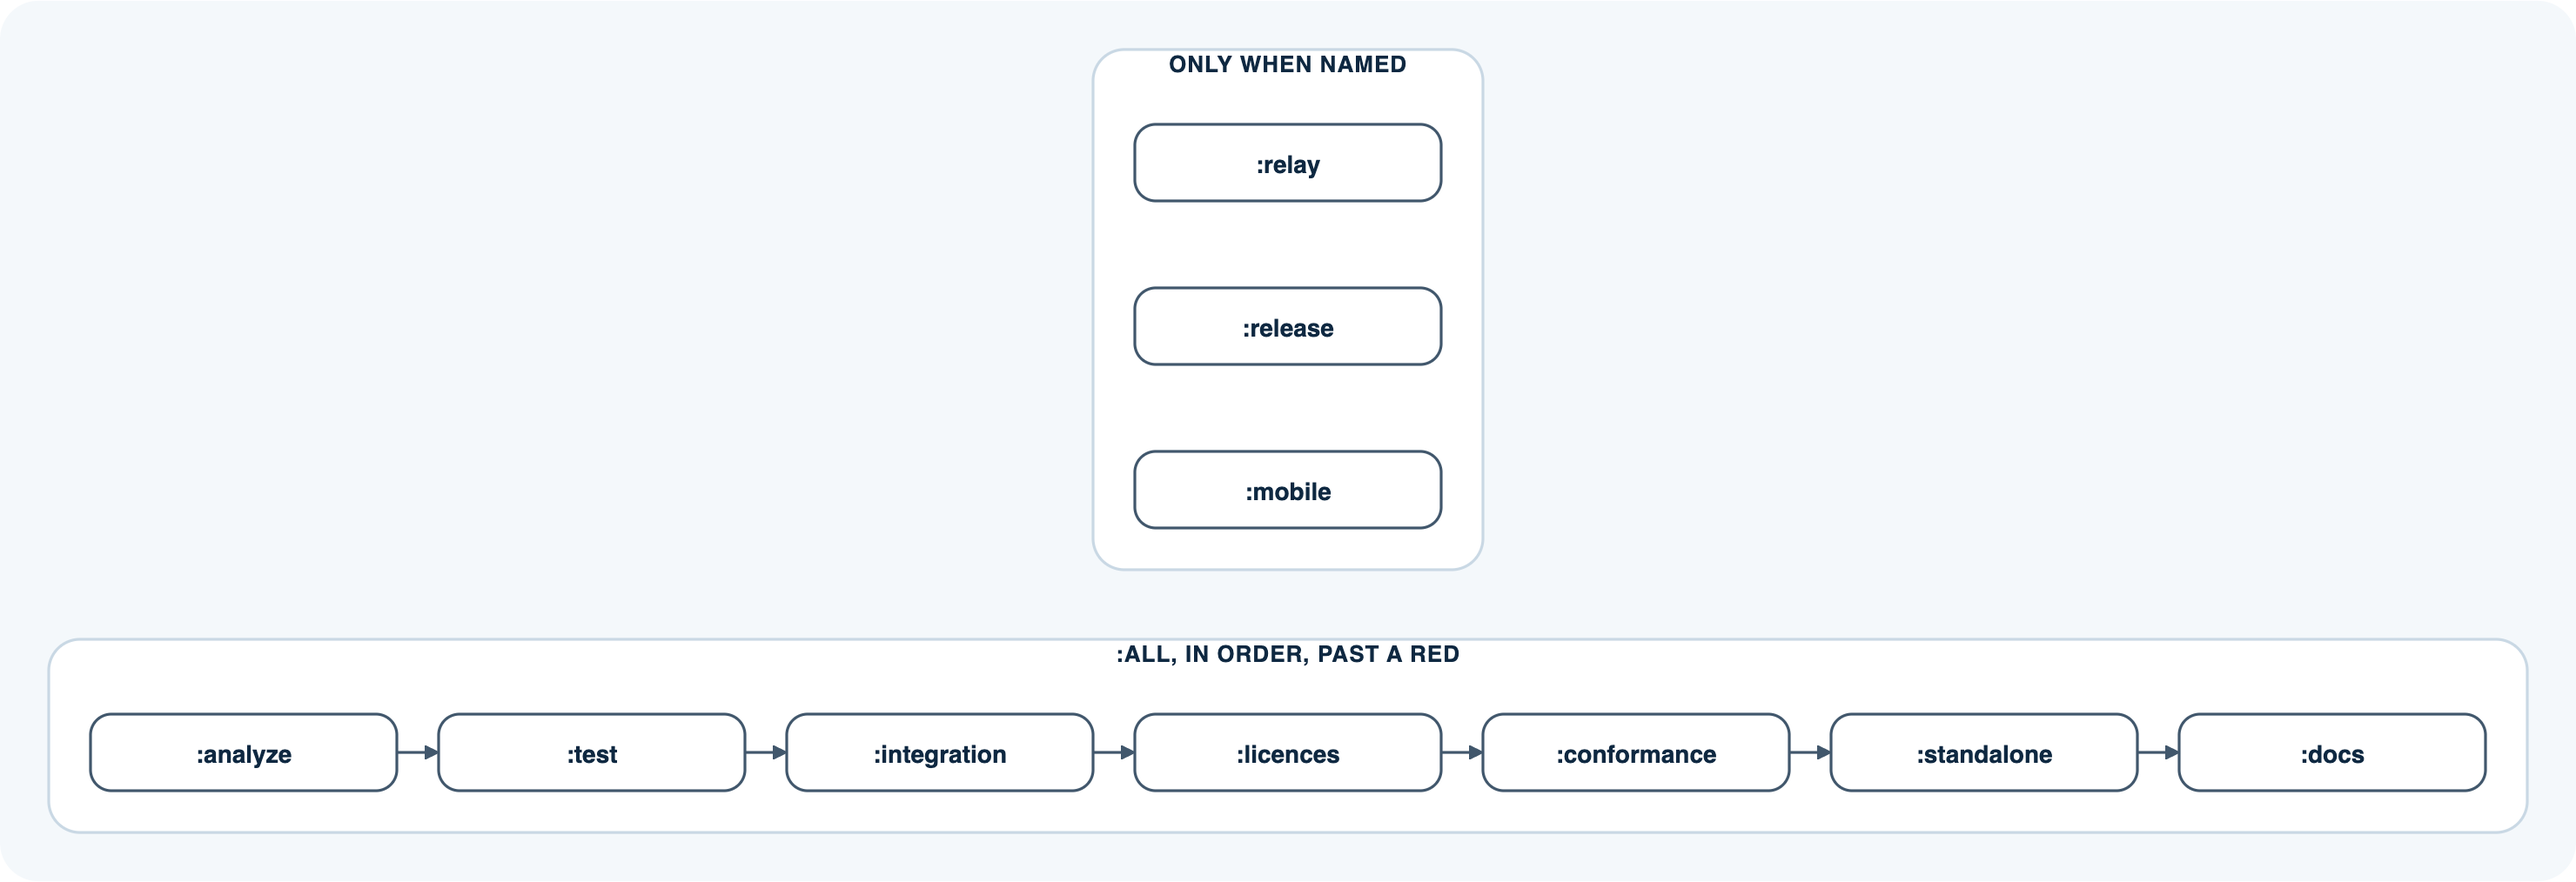
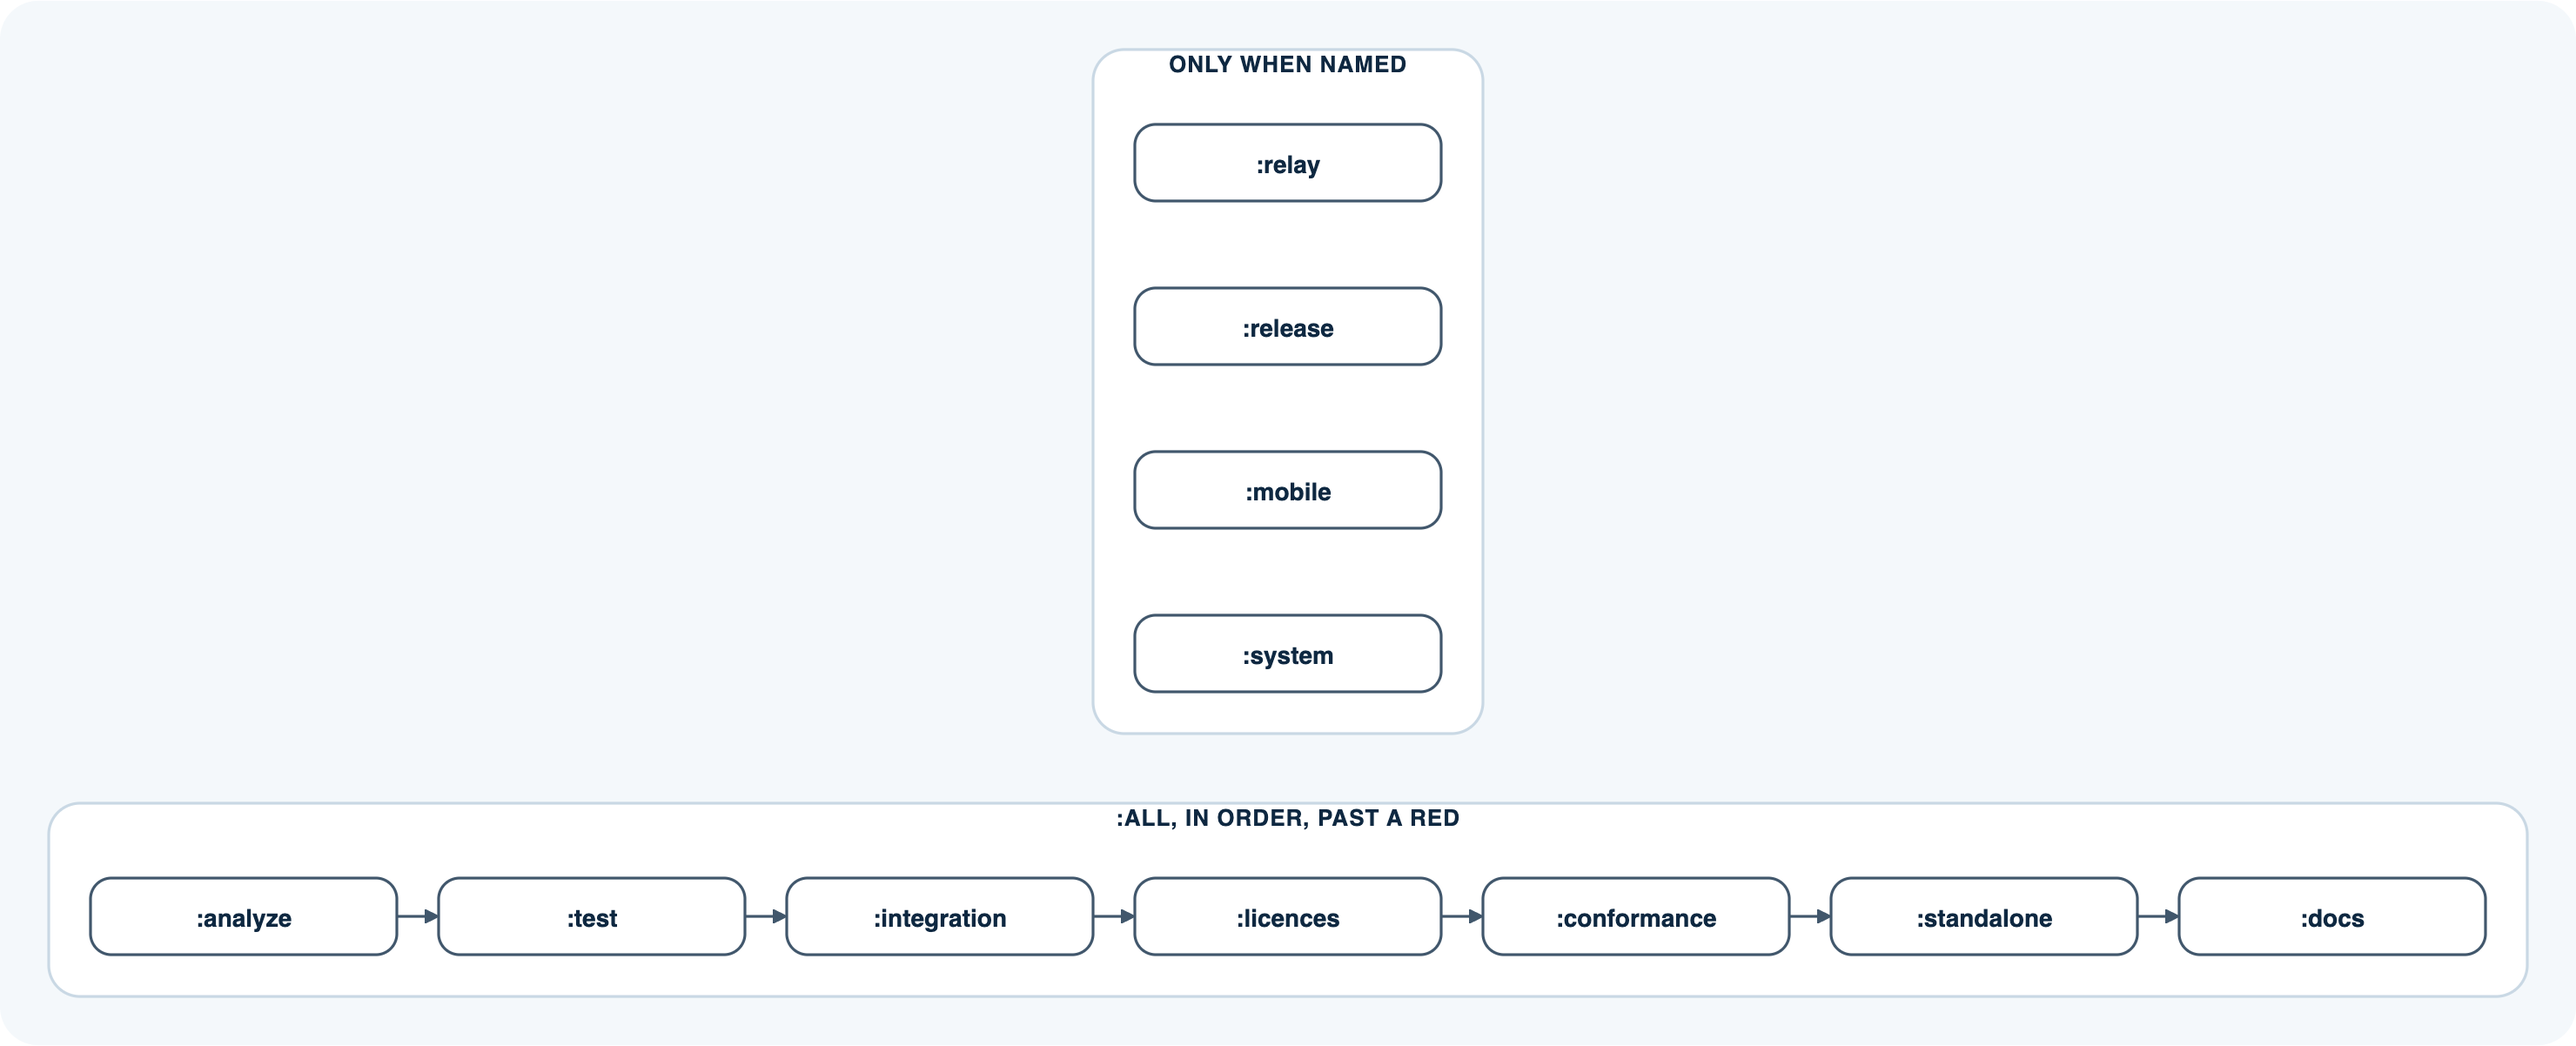
ci.sh :system: the Linux system install checked as root in a container; the app on tom_secrets_service 0.27.0
tool/system_install_check.sh builds the service and tsm from the working
tree in dart:stable, installs them with tsm install --system and checks with
three demo users: owners and modes, the identity keys out of every user's
reach, the group dropped, memory and environment closed, LD_PRELOAD ignored,
the account's runtime directory, a key from before signing the new one,
uninstall and --purge. Not part of :all (needs Docker). The demo installation
and the release smoke keep their identity key and pins with them (tsm_d11).

diff --git a/tom_secrets_build/lib/src/ci_stages.dart b/tom_secrets_build/lib/src/ci_stages.dart
@@ -27,11 +27,20 @@ const List<String> secretsCiStages = [
   'release',
   'mobile',
   'relay',
+  'system',
 ];
 
 /// The stages `:all` leaves out: the releases and the relay's image are
-/// built when one is made.
-const Set<String> secretsCiStagesNotInAll = {'release', 'mobile', 'relay'};
+/// built when one is made; the system install's check needs Docker.
+const Set<String> secretsCiStagesNotInAll = {
+  'release',
+  'mobile',
+  'relay',
+  'system',
+};
+
+/// The image the system install is checked in: Debian with the Dart SDK.
+const String secretsSystemCheckImage = 'dart:stable';
 
 /// One-line descriptions, shared by `--help` and the README.
 const Map<String, String> secretsCiStageDescriptions = {
@@ -103,8 +112,17 @@ const Map<String, String> secretsCiStageDescriptions = {
       'the relay server\'s container image (not part of :all): docker build '
       'of tom_secrets_relay (its Dockerfile: the AOT bundle on scratch), '
       'tagged tom_secrets_relay:<version>; needs a running Docker',
+  'system':
+      'the Linux system install checked as root in a throwaway container '
+      '(not part of :all; tool/system_install_check.sh in the image '
+      '$secretsSystemCheckImage): the service and tsm built from the working '
+      'tree, `tsm install --system`, three demo users (their identity keys '
+      'out of their reach, the group dropped, LD_PRELOAD ignored, a key '
+      'from before the install signing the new one), uninstall; needs a '
+      'running Docker',
   'all':
-      'every stage above but :release, :mobile and :relay, in that order, '
+      'every stage above but :release, :mobile, :relay and :system, in that '
+      'order, '
       'continuing past a red',
 };
 
@@ -576,6 +594,8 @@ class SecretsCiStages {
         await _mobile(run);
       case 'relay':
         await _relayImage(run);
+      case 'system':
+        await _systemInstall(run);
       default:
         throw ArgumentError.value(stage, 'stage', 'not a stage');
     }
@@ -643,6 +663,27 @@ extension on SecretsCiStages {
   /// The relay server's container image, tagged with its version (part-relay,
   /// DP-67): `docker build` of the package, whose Dockerfile builds the AOT
   /// bundle and puts it on `scratch`.
+  /// The system install's check in a throwaway container (as root there,
+  /// never on this machine).
+  Future<void> _systemInstall(CiRun run) async {
+    const stage = 'system';
+    await run.step(stage, 'container', 'system.container.log', [
+      CiCommand('docker', [
+        'run',
+        '--rm',
+        '-v',
+        '${workspace.managerRoot}:/mnt/manager:ro',
+        '-v',
+        '${workspace.clientsRoot}:/mnt/clients:ro',
+        '-v',
+        '${p.join(workspace.buildPackageDir, 'tool')}:/mnt/tool:ro',
+        secretsSystemCheckImage,
+        'bash',
+        '/mnt/tool/system_install_check.sh',
+      ], workingDirectory: workspace.buildPackageDir),
+    ]);
+  }
+
   Future<void> _relayImage(CiRun run) async {
     const stage = 'relay';
     final relay = p.join(workspace.repoRoot, 'tom_secrets_relay');

diff --git a/tom_secrets_build/lib/src/release.dart b/tom_secrets_build/lib/src/release.dart
@@ -439,6 +439,8 @@ Future<bool> secretsSmokeRelease({
   final env = {
     'TSM_DATA_DIR': p.join(installation, 'data'),
     'TSM_RUNTIME_DIR': p.join(installation, 'run'),
+    // tsm's pins of the demo service stay with the demo installation.
+    'TSM_CONFIG_DIR': p.join(installation, 'config'),
   };
   Future<ProcessResult> run(List<String> args, {String? stdinText}) async {
     final process = await Process.start(tsm, args, environment: env);

diff --git a/tom_secrets_build/test/ci_stages_test.dart b/tom_secrets_build/test/ci_stages_test.dart
@@ -30,6 +30,7 @@ void main() {
       expect(resolve(['release']), ['release'], reason: 'only when named');
       expect(resolve(['mobile']), ['mobile'], reason: 'only when named');
       expect(resolve(['relay']), ['relay'], reason: 'only when named');
+      expect(resolve(['system']), ['system'], reason: 'only when named');
       expect(resolve(['licences', 'analyze', 'licences']), [
         'licences',
         'analyze',

diff --git a/tom_secrets_desktop/tool/demo_installation.dart b/tom_secrets_desktop/tool/demo_installation.dart
@@ -98,6 +98,8 @@ Future<void> main(List<String> args) async {
   File('${dir.path}/data/bootstrap.yaml').writeAsStringSync(
     'primary: file:${dir.path}/primary.kdbx\n'
     'device_key: keyfile\n'
+    // The identity key in its file: no keychain item for a demo.
+    'identity_key: file\n'
     'runtime_dir: ${dir.path}/run\n'
     'host: demo-host\n'
     '${app == null ? '' : 'admin_executables:\n  - $app\n'}',

diff --git a/tom_secrets_build/README.md b/tom_secrets_build/README.md
@@ -123,6 +123,8 @@ Log and step names are paths relative to the folder that holds all three.
 - `:release`: not part of `:all`: the release for this platform, below.
 - `:mobile`: not part of `:all`: the mobile app's Android release, below.
 - `:relay`: not part of `:all`: the relay server's container image, below.
+- `:system`: not part of `:all`: the Linux system install checked in a
+  container, below.
 
 The packages are found, never listed: every directory with a `pubspec.yaml`
 (an npm package: a `package.json` with its `package-lock.json`; a Cargo
@@ -301,6 +303,25 @@ version is `tom_secrets_mobile`'s) and listed in that folder's `SHA256SUMS`.
 It is installed directly on the phone (DP-204). The iOS app is not a release
 file: it is built from Xcode onto the device under the user's free personal
 team (DP-130).
+
+## The system install's check
+
+`./ci.sh :system` checks `tsm install --system` (the service installed for
+every user of a Linux server, set-group-ID to `tsm-identity`) as root in a
+throwaway container, never on this machine. A running Docker is needed.
+`tool/system_install_check.sh` runs in `dart:stable` with the two
+repositories mounted read-only. It builds the service and `tsm` from the
+working tree, installs them, and checks with three demo users:
+
+- the files' owners and modes;
+- that a user's identity key is out of that user's reach and another's;
+- that the service runs as the user with the group dropped, its memory and
+  environment closed to the user, `LD_PRELOAD` ignored;
+- that the environment does not move its runtime directory;
+- that a key from before the install signs the new one;
+- uninstall and `--purge`.
+
+It prints a PASS or FAIL line per check (`system.container.log`).
 
 ## The relay image
 

diff --git a/tom_secrets_build/doc/user_guide.md b/tom_secrets_build/doc/user_guide.md
@@ -54,7 +54,8 @@ reasons:
 2. Install the Flutter SDK (it brings Dart). For the stages that need them:
    Node.js 20 or later with npm, Python 3 with `jsonschema`, Go, Rust with
    `cargo` and `clippy`, a JDK 16 or later, CMake 3.16 or later with a C
-   compiler; Docker for `:relay`; the Android SDK for `:mobile`.
+   compiler; Docker for `:relay` and `:system`; the Android SDK for
+   `:mobile`.
 3. Run it from `tom_app_secrets_manager/tom_secrets_build`:
 
    ```sh
@@ -97,6 +98,7 @@ flowchart LR
     release[":release"]:::step
     mobile[":mobile"]:::step
     relay[":relay"]:::step
+    system[":system"]:::step
   end
   analyze --&gt; test --&gt; integration --&gt; licences
   licences --&gt; conformance --&gt; standalone --&gt; docs
@@ -116,6 +118,7 @@ flowchart LR
 | `:release` | the release of the platform it runs on | to make a release |
 | `:mobile` | the Android app's signed APK | to release the mobile app |
 | `:relay` | the relay server's container image | to deploy the relay |
+| `:system` | the Linux system install, checked as root in a container | after a change to the system install or the service's start |
 
 Several stages can be named at once (`./ci.sh :standalone :docs`); they run
 in the order given. `./ci.sh :all` takes a while; while working, run the

diff --git a/tom_secrets_app/CHANGELOG.md b/tom_secrets_app/CHANGELOG.md
@@ -2,6 +2,11 @@
 
 ## 0.1.2
 
+- The service keeps its identity key where the system keeps your other
+  programs out: on macOS in a keychain item that trusts the service alone
+  (an update asks once), on Windows protected with DPAPI; on a shared Linux
+  server an administrator installs it for every user
+  (`tom_secrets_service` 0.27.0).
 - The app talks only to the secrets service whose identity key it pinned
   (when it started it, by pairing, or after you compared its words), and
   the master password of a claim is encrypted to that service. A service

diff --git a/tom_secrets_ui/CHANGELOG.md b/tom_secrets_ui/CHANGELOG.md
@@ -2,6 +2,9 @@
 
 ## 0.1.0
 
+- `tom_secrets_service` 0.27.0: the service's identity key in the macOS
+  keychain (its signature alone), with DPAPI on Windows, or a Linux system
+  install's directory.
 - The service's identity key (protocol.md 6.1): the gate screens show a
   service the app has not met with its identity words and "The words are
   the same: trust it" (no password field), and a service whose key changed
